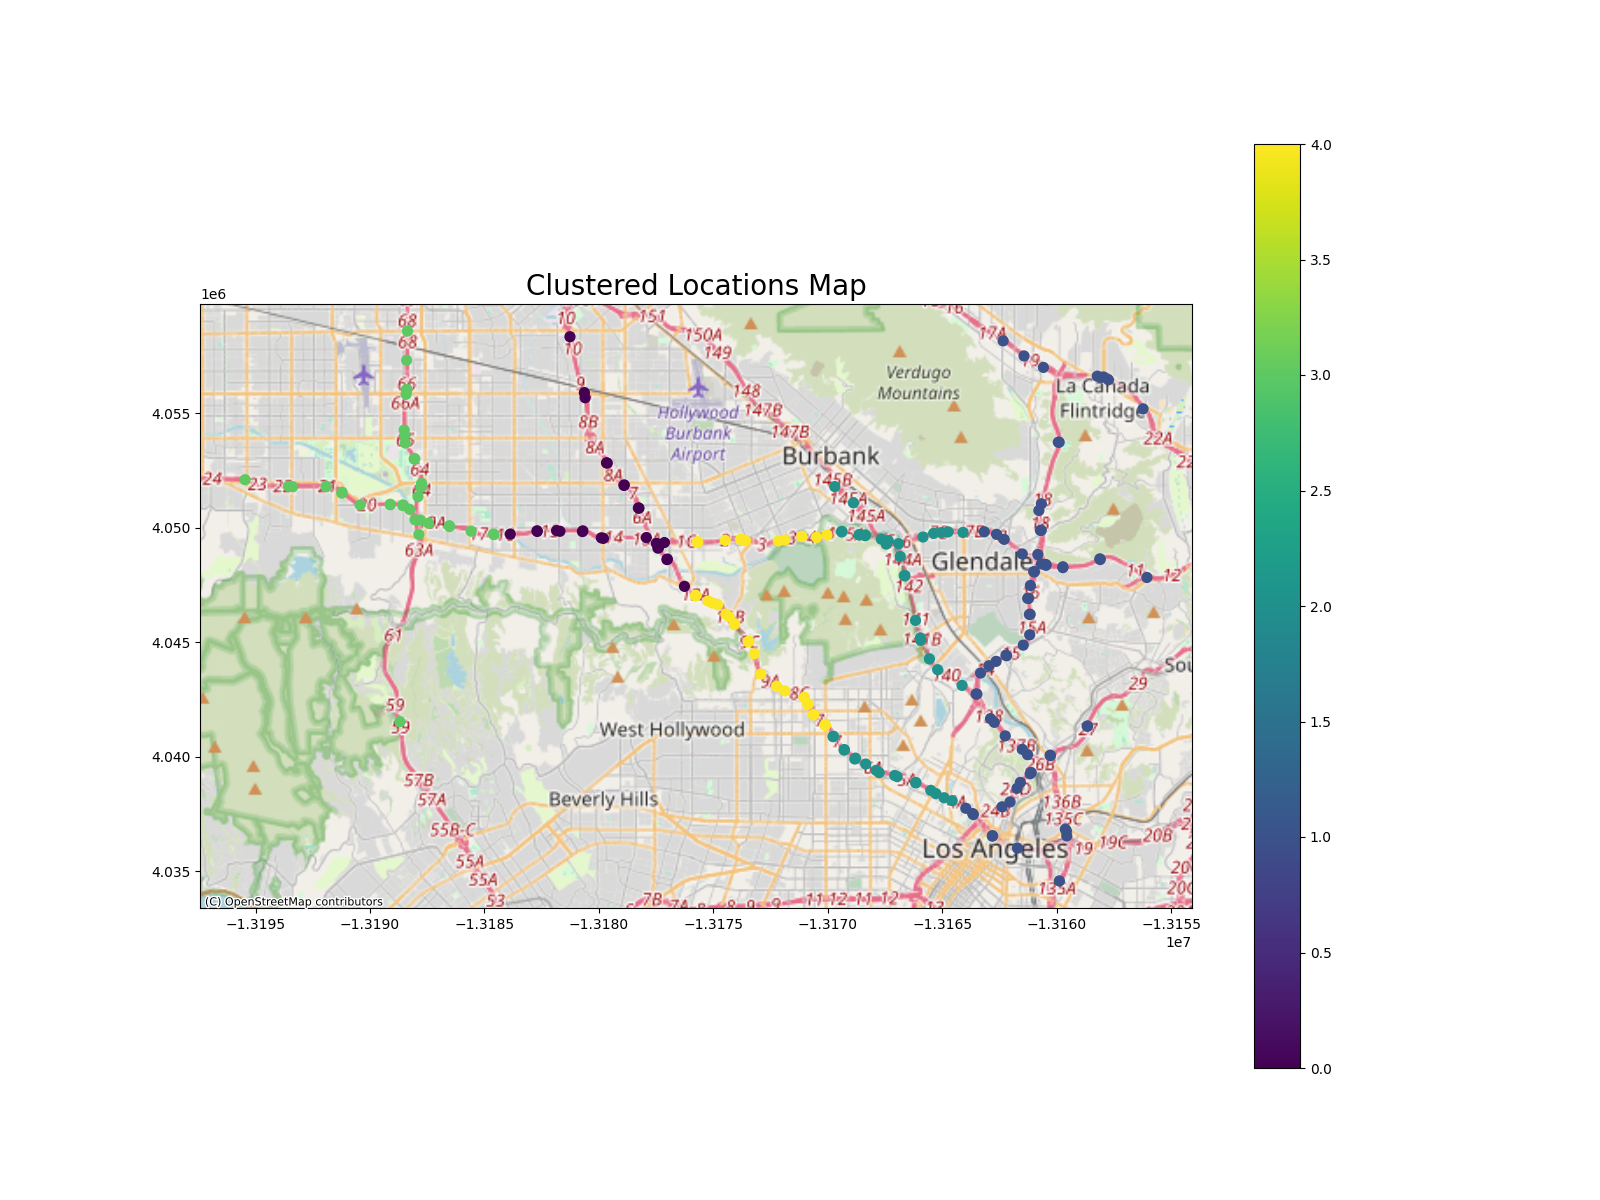
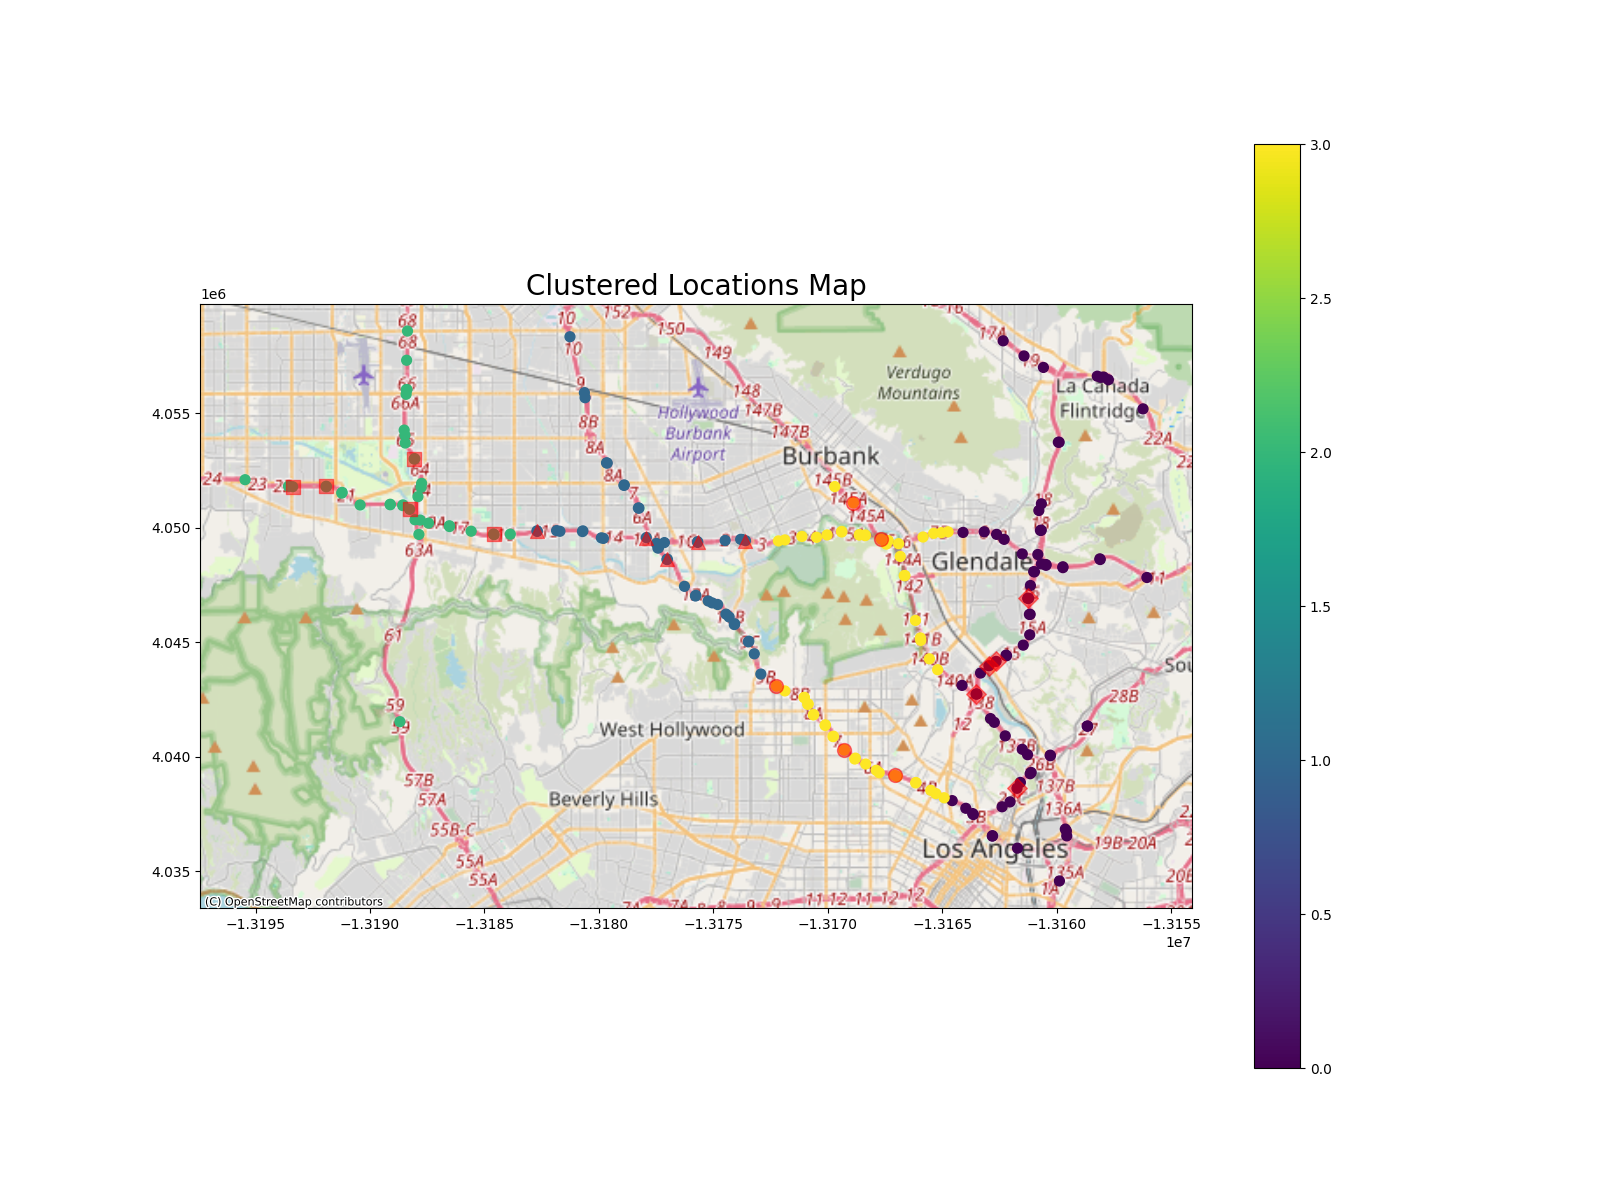
add readme for data

diff --git a/data/read_data_and_cluster.py b/data/read_data_and_cluster.py
@@ -1,7 +1,7 @@
 import pandas as pd
 import geopandas as gpd
 import matplotlib.pyplot as plt
-
+import numpy as np
 import contextily as ctx
 from sklearn.cluster import KMeans
 
@@ -43,8 +43,6 @@ from sklearn.cluster import KMeans
 
 # -----------------------------------------CLUSTERING-----------------------------------------------------------
 
-
-# Read the CSV file
 df = pd.read_csv('./graph_sensor_locations.csv')
 df = df.set_index('sensor_id')
 
@@ -52,27 +50,24 @@ gdf = gpd.GeoDataFrame(df, geometry=gpd.points_from_xy(df.longitude, df.latitude
 gdf = gdf.to_crs(epsg=3857)
 
 # Perform K-means clustering
-kmeans = KMeans(n_clusters=4, random_state=0)
+kmeans = KMeans(n_clusters=4, random_state=23)
 gdf['cluster'] = kmeans.fit_predict(gdf[['geometry']].apply(lambda geom: geom.x))
 
-fig, ax = plt.subplots(figsize=(16, 12))  # Adjust the figure size as needed
-
-# Print indices for each cluster
-for cluster_num, indices in gdf.groupby('cluster').groups.items():
-    # Plot 5 values for the current cluster
-    gdf_sample = gdf.loc[indices[:5]]  # Select the first 5 indices for the cluster
-    gdf_sample.plot(ax=ax, color='red', markersize=100, label=f'Cluster {cluster_num} Sample Points', alpha=0.5)
-
-    print(f"Cluster {cluster_num} Indices: {indices}")
-
-
+fig, ax = plt.subplots(figsize=(16, 12))
 # Plot the points with cluster coloring
 gdf.plot(ax=ax, column='cluster', cmap='viridis', markersize=50, legend=True)
 ctx.add_basemap(ax, source=ctx.providers.OpenStreetMap.Mapnik)
 
+# Print indices for each cluster
+
+marker_styles = ['D', '^', 's', 'o']  # Circle, Triangle, Square, Diamond
+for cluster_num, indices in gdf.groupby('cluster').groups.items():
+    random_indices = np.random.RandomState(27).choice(indices, size=min(5, len(indices)), replace=False)
+
+    gdf_sample = gdf.loc[random_indices]  # Select the first 5 indices for the cluster
+    ax.scatter(gdf_sample.geometry.x, gdf_sample.geometry.y, color='red', s=100,
+               label=f'Cluster {cluster_num} Sample Points', alpha=0.5, marker=marker_styles[cluster_num])
+
 ax.set_title('Clustered Locations Map', size=20)
-# ax.set_xlabel('Longitude')
-# ax.set_ylabel('Latitude')
 plt.savefig("./clustered_street_map.png")
 plt.show()
-

diff --git a/data/README.md b/data/README.md
@@ -1,0 +1,34 @@
+# Steps on how the data was downloaded/created.
+## METR_LA.csv
+How the METR-LA.csv dataset can be downloaded/created
+```
+import h5py
+import numpy as np
+import pandas as pd
+
+#change to h5 file path
+#download it using one of the following sources
+#https://www.kaggle.com/datasets/annnnguyen/metr-la-dataset
+#https://www.kaggle.com/code/xiaohualu/mapvisualization-metrla-pydeck/input?select=metr-la.h5
+#https://data.mendeley.com/datasets/s42kkc5hsw/1
+filename = metr-la.h5'
+
+#read h5 file
+dataset = h5py.File(filename, 'r')
+
+#print the first unknown key in the h5 file
+print(dataset.keys()) #returns df
+
+
+#save the h5 file to csv using the first key df
+with pd.HDFStore(filename, 'r') as d:
+    df = d.get('df')
+    print(df)
+    df.to_csv('./METR-LA.csv')
+```
+## graph_sensor_locations.csv
+For re-running the map with the sensor locations, one needs the locations file for the sensors.
+This can be received under one of the following resources:
+https://www.kaggle.com/code/xiaohualu/mapvisualization-metrla-pydeck/input?select=graph_sensor_locations.csv
+https://github.com/deepkashiwa20/DL-Traff-Graph/tree/main/METRLA/graph_sensor_locations.csv
+https://github.com/chnsh/DCRNN_PyTorch/tree/pytorch_scratch/data/sensor_graph/graph_sensor_locations.csv
